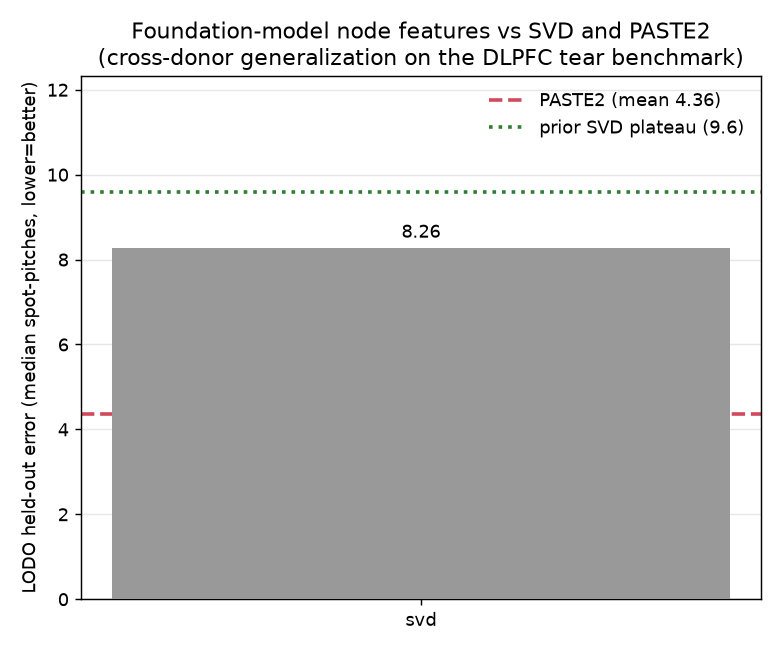
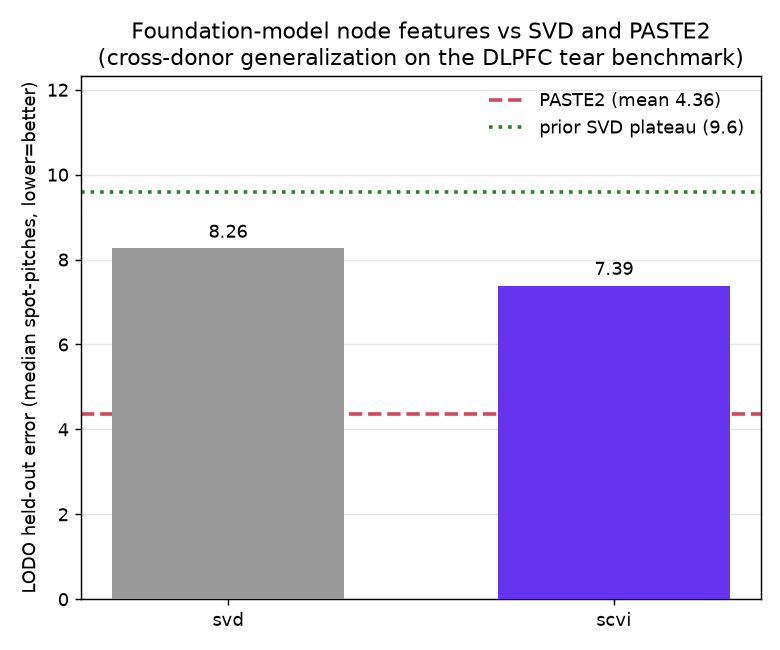
auto-sync 2026-07-10T13:08:52

Changed region(s): [[0.4308, 0.3385, 0.9538, 0.9846], [0.2462, 0.3385, 0.3385, 0.3692], [0.2769, 0.9231, 0.3077, 0.9846]]

diff --git a/research/FINDINGS_foundation_features.md b/research/FINDINGS_foundation_features.md
@@ -1,18 +1,19 @@
 # Foundation-model features vs Sutura SVD - cross-donor generalization
 
-_Generated 2026-07-10T17:04:04Z on branch `foundation-features`._
+_Generated 2026-07-10T18:08:12Z on branch `foundation-features`._
 
 **Question.** Sutura's per-fold TruncatedSVD node features plateau at ~9.6 spot-pitches held-out-donor error (PASTE2 ~3.5). Does swapping in a pretrained/self-supervised foundation-model embedding - with the alignment architecture, tear benchmark, LODO protocol, and training recipe (augmentation + weight decay + early stopping) all held fixed - move held-out error toward or below PASTE2?
 
 
-**Headline.** Best embedding = `svd` at 8.26 pitches held-out (PASTE2 4.36, prior SVD 9.6). It **narrows but does NOT reach PASTE2** (moves +1.34 vs the SVD plateau; +3.90 vs PASTE2).
+**Headline.** Best embedding = `scvi` at 7.39 pitches held-out (PASTE2 4.36, prior SVD 9.6). It **narrows but does NOT reach PASTE2** (moves +2.21 vs the SVD plateau; +3.03 vs PASTE2).
 
 
 ## Ranked held-out error (mean over LODO folds, lower is better)
 
 | rank | feature | held-out (pitch) | PASTE2 | vs PASTE2 | vs SVD plateau | folds |
 |---|---|---|---|---|---|---|
-| 1 | `svd` | 8.26 | 4.36 | +3.90 | -1.34 | 3 |
+| 1 | `scvi` | 7.39 | 4.36 | +3.03 | -2.21 | 3 |
+| 2 | `svd` | 8.26 | 4.36 | +3.90 | -1.34 | 3 |
 
 Reference lines: prior SVD plateau 9.6, PASTE2 mean 4.36 pitches.
 
@@ -24,7 +25,10 @@ Reference lines: prior SVD plateau 9.6, PASTE2 mean 4.36 pitches.
 | `svd` | Br5292 | 8.527 | 3.147 | 5.28 | False | 50 | 893.9 | ok |
 | `svd` | Br5595 | 7.826 | 3.17 | 4.35 | False | 50 | 1099.6 | ok |
 | `svd` | Br8100 | 8.44 | 3.423 | 3.46 | False | 50 | 967.0 | ok |
+| `scvi` | Br5292 | 7.277 | 2.748 | 5.28 | False | 50 | 1201.4 | ok |
+| `scvi` | Br5595 | 6.981 | 2.733 | 4.35 | False | 50 | 1305.4 | ok |
+| `scvi` | Br8100 | 7.909 | 2.662 | 3.46 | False | 50 | 1335.3 | ok |
 
 ## Interpretation
 
-`svd` narrows the cross-donor gap materially vs the SVD plateau (8.26 vs 9.6) but still trails PASTE2 - the embedding is a better prior, yet not sufficient on its own.
+`scvi` narrows the cross-donor gap materially vs the SVD plateau (7.39 vs 9.6) but still trails PASTE2 - the embedding is a better prior, yet not sufficient on its own.
